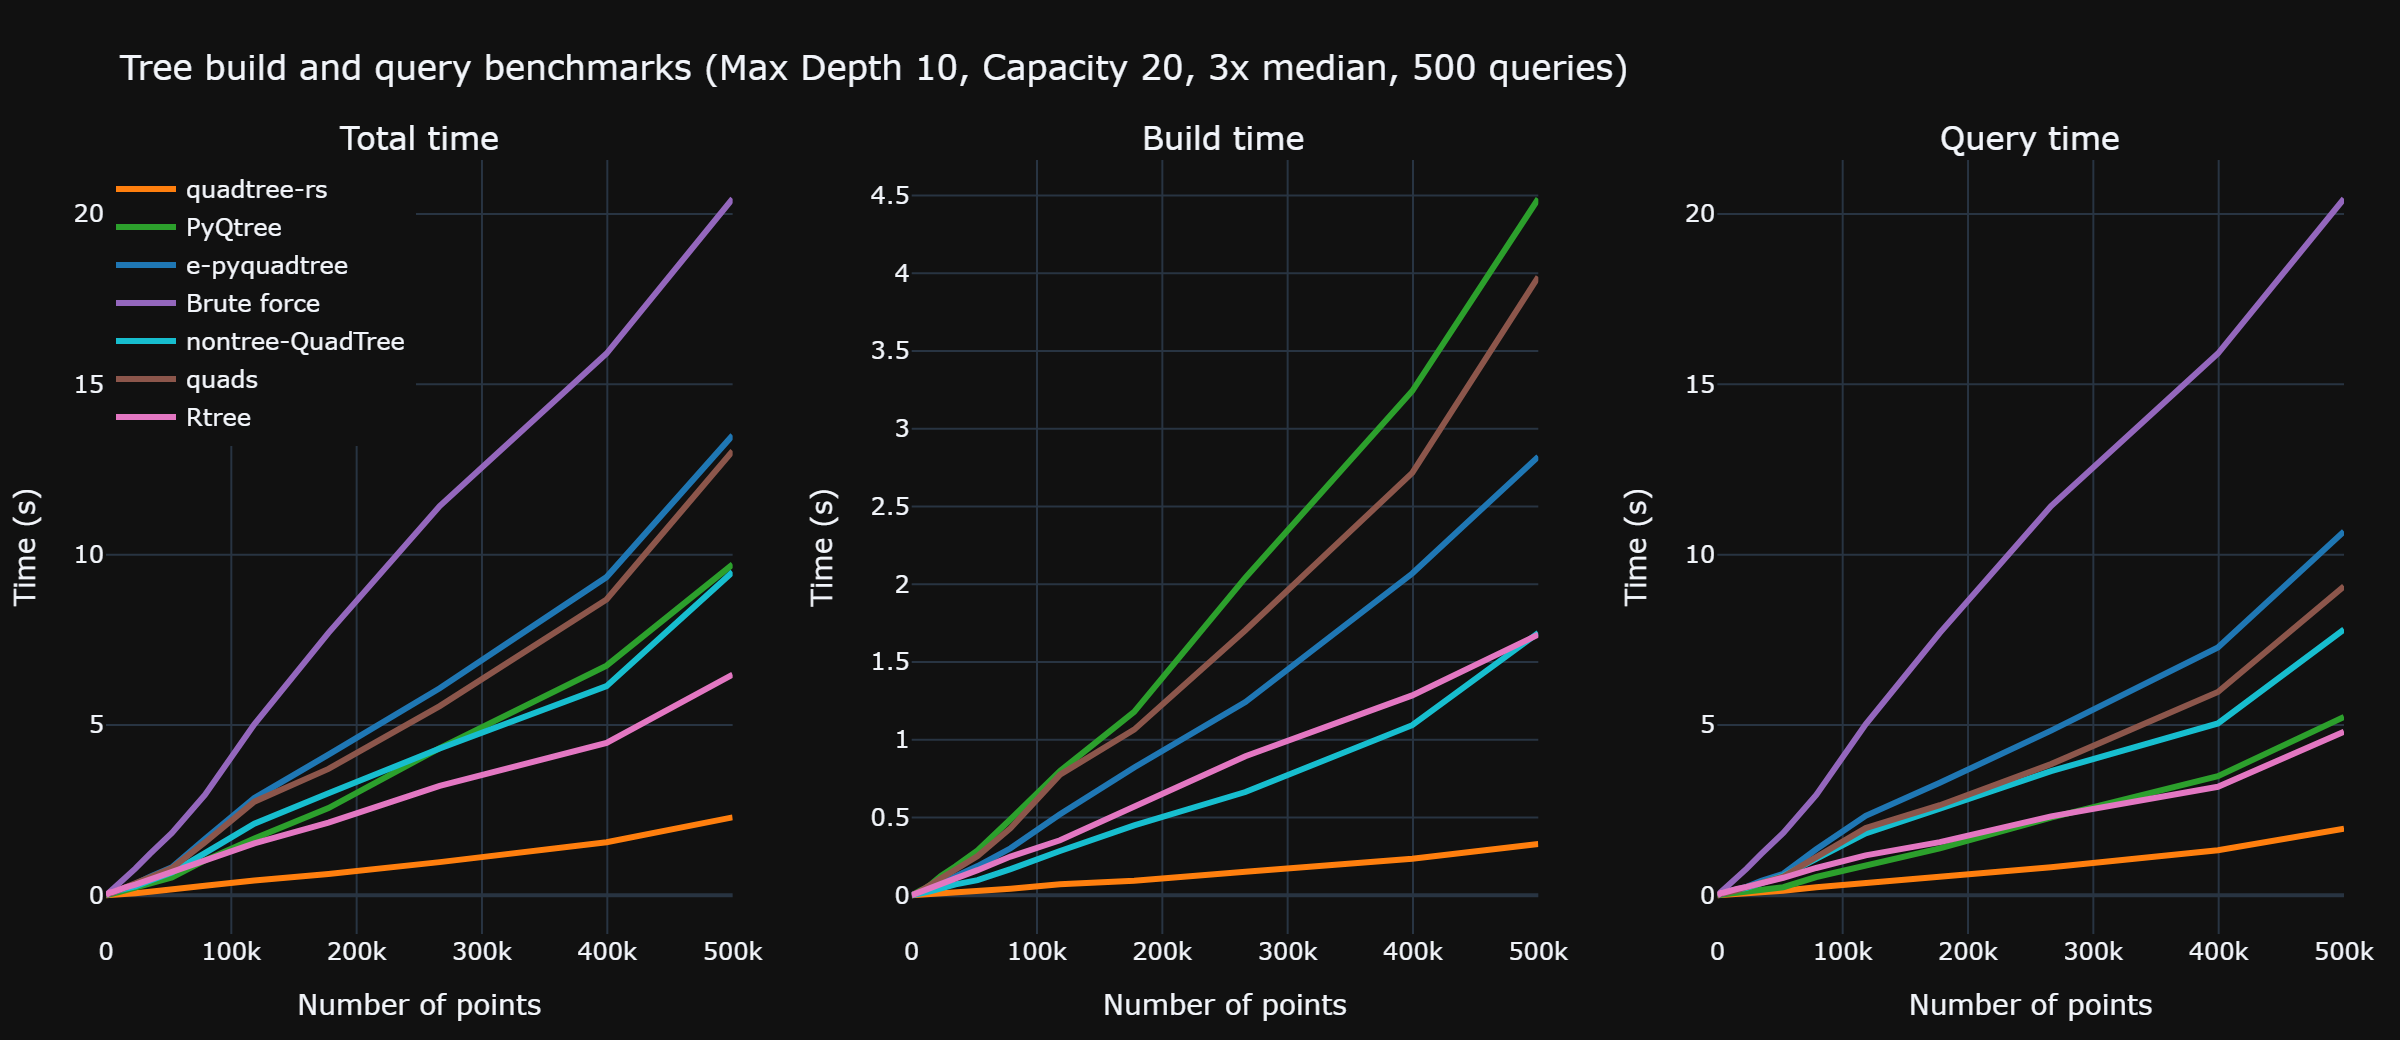
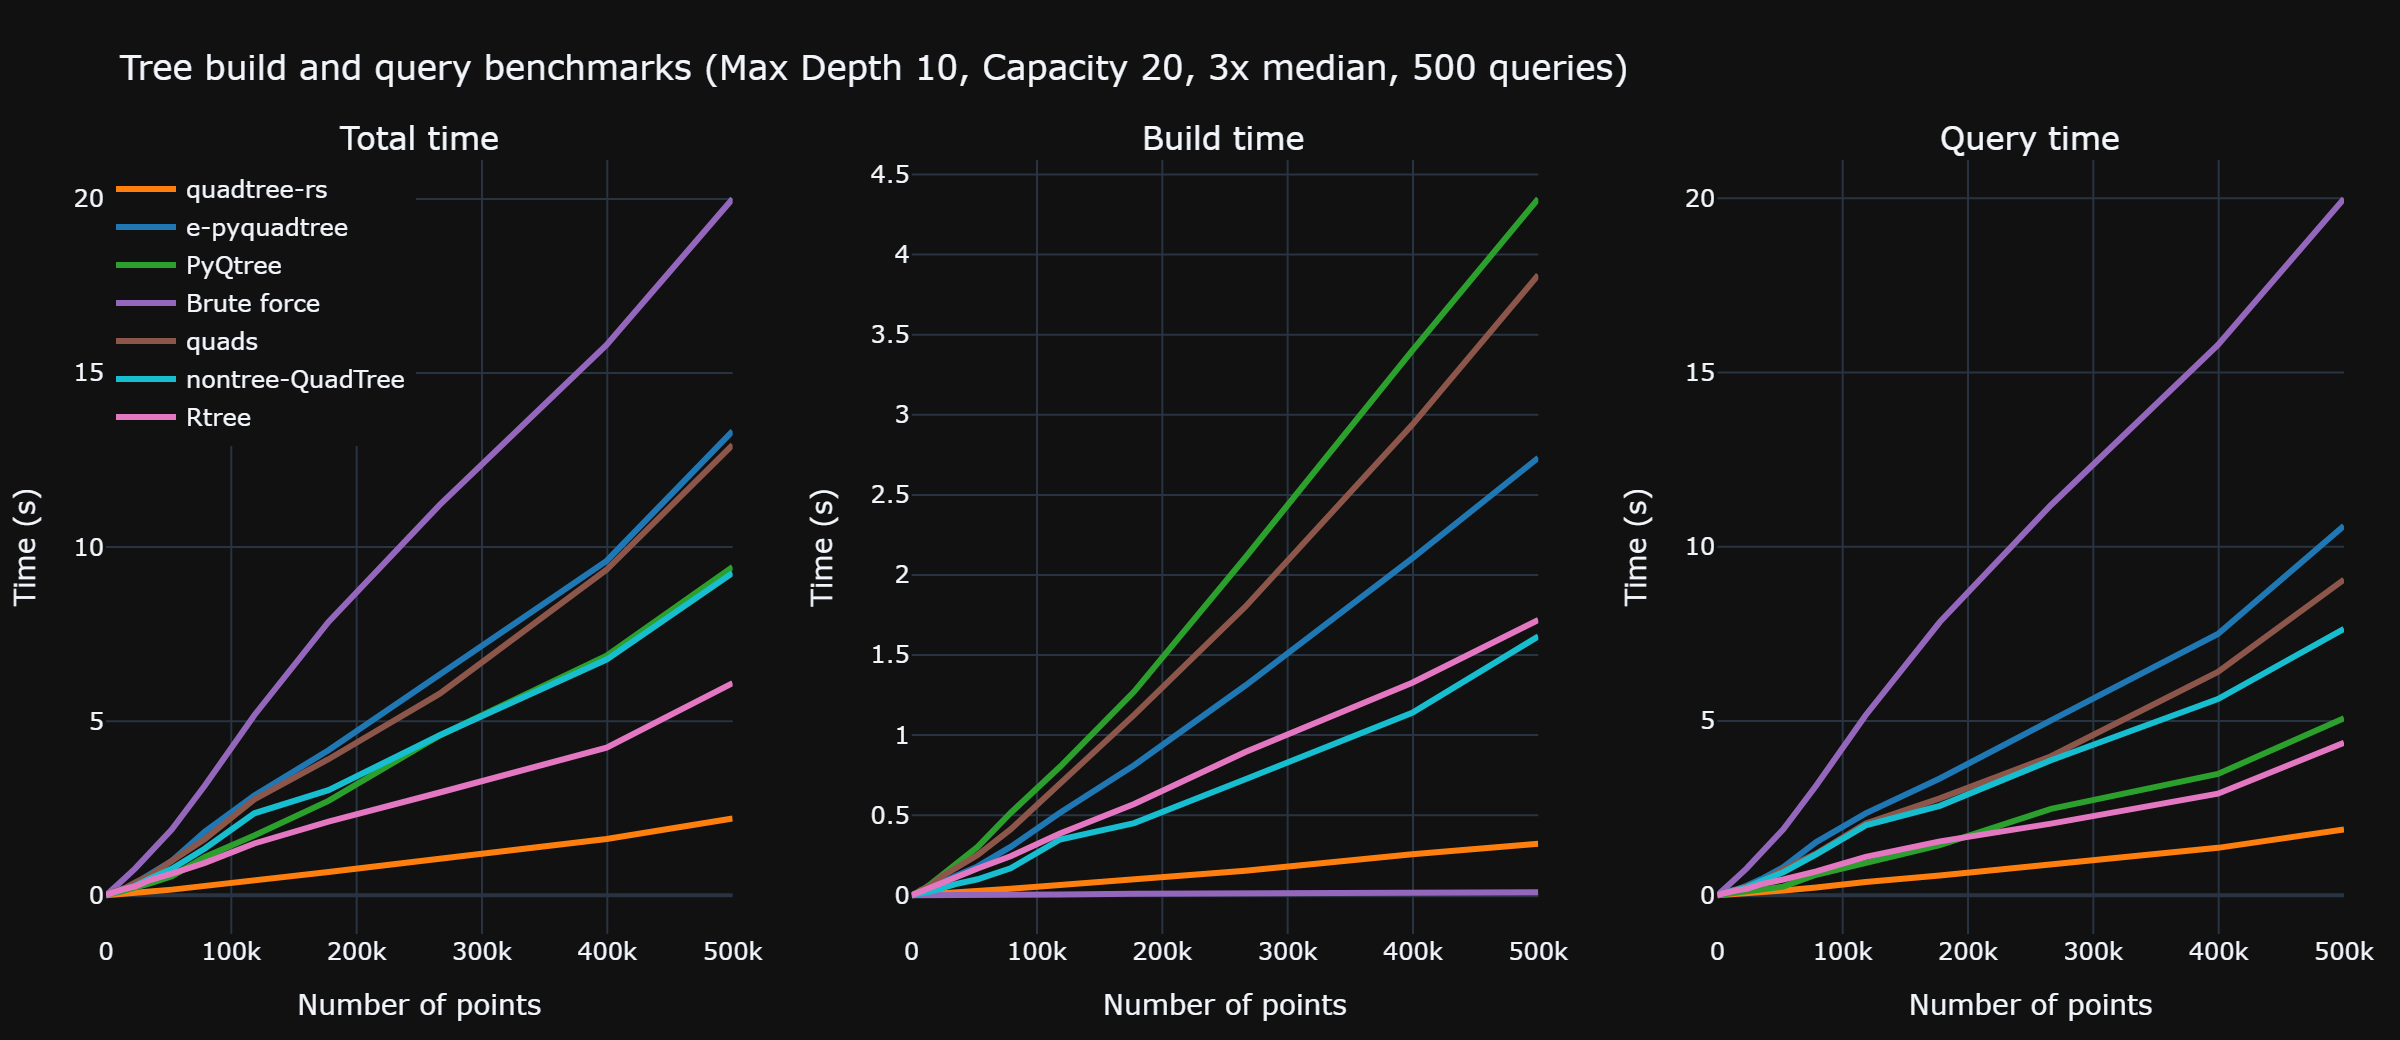
fix: fix rtree benchmark engine

diff --git a/benchmarks/cross_library_bench.py b/benchmarks/cross_library_bench.py
@@ -1,0 +1,3 @@
+from quadtree_bench.main import main 
+
+main()

diff --git a/README.md b/README.md
@@ -199,22 +199,17 @@ Generated with `benchmarks/benchmark_plotly.py` in this repo.
 ### Summary (largest dataset, PyQtree baseline)
 - Points: **500,000**, Queries: **500**
 --------------------
-- Fastest total: **quadtree-rs** at **2.288 s**
-- PyQtree total: **9.717 s**
-- quadtree-rs total: **2.288 s**
-- e-pyquadtree total: **13.504 s**
-- Brute force total: **20.450 s**
---------------------
+- Fastest total: **quadtree-rs** at **2.207 s**
 
 | Library | Build (s) | Query (s) | Total (s) | Speed vs PyQtree |
 |---|---:|---:|---:|---:|
-| quadtree-rs  | 0.330 | 1.958 | 2.288 | 4.25× |
-| PyQtree      | 4.479 | 5.238 | 9.717 | 1.00× |
-| e-pyquadtree | 2.821 | 10.683 | 13.504 | 0.72× |
-| Brute force  | nan | 20.450 | 20.450 | 0.48× |
-| nontree-QuadTree | 1.687 | 7.803 | 9.490 | 1.02× |
-| quads        | 3.977 | 9.070 | 13.046 | 0.74× |
-| Rtree        | 1.676 | 4.805 | 6.481 | 1.50× |
+| quadtree-rs  | 0.321 | 1.885 | 2.207 | 4.27× |
+| Rtree        | 1.718 | 4.376 | 6.095 | 1.55× |
+| nontree-QuadTree | 1.617 | 7.643 | 9.260 | 1.02× |
+| PyQtree      | 4.349 | 5.082 | 9.431 | 1.00× |
+| quads        | 3.874 | 9.058 | 12.932 | 0.73× |
+| e-pyquadtree | 2.732 | 10.598 | 13.330 | 0.71× |
+| Brute force  | 0.019 | 19.986 | 20.005 | 0.47× |
 
 ### Native vs Shim
 
@@ -235,6 +230,22 @@ Generated with `benchmarks/benchmark_plotly.py` in this repo.
 
 - No map: build 1.38x, query 0.95x, total 0.99x  
 - Track + objs: build 2.39x, query 1.02x, total 1.15x
+
+### Run benchmarks
+To run the benchmarks yourself, first install the dependencies:
+
+```bash
+pip install -r benchmarks/requirements.txt
+```
+
+Then run:
+
+```bash
+python benchmarks/cross_library_bench.py
+python benchmarks/benchmark_native_vs_shim.py 
+```
+
+Check the CLI arguments for the cross-library benchmark in `benchmarks/quadtree_bench/main.py`.
 
 ## FAQ
 
